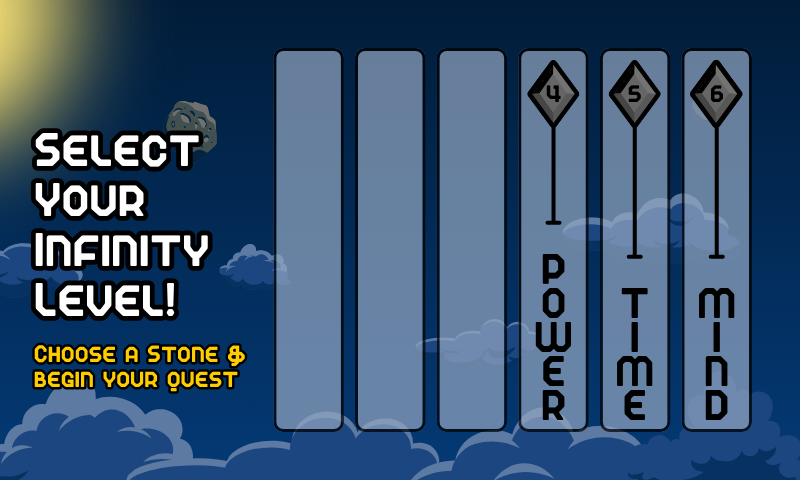
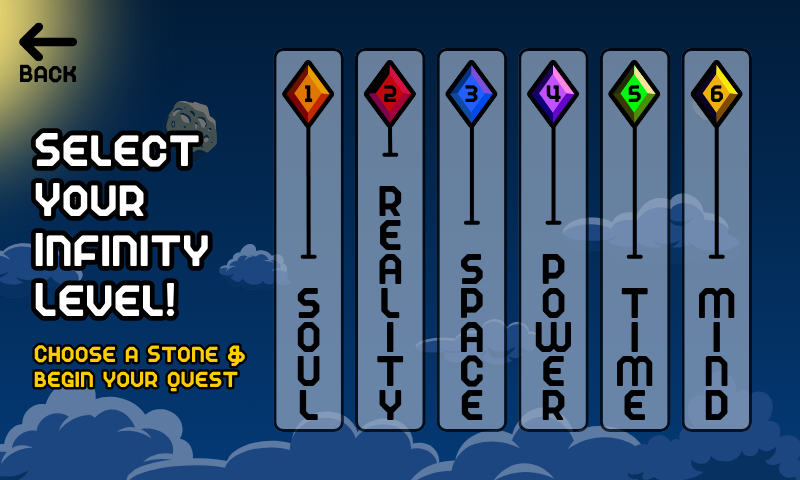
Updated level1 design.

diff --git a/core/src/main/java/com/ByteMe/LevelsScreen.java b/core/src/main/java/com/ByteMe/LevelsScreen.java
@@ -55,6 +55,21 @@ public class LevelsScreen implements Screen {
         int level3_w = 60;
         int level3_h = 375;
 
+        int level4_x = 525;
+        int level4_y = 50;
+        int level4_w = 60;
+        int level4_h = 375;
+
+        int level5_x = 608;
+        int level5_y = 50;
+        int level5_w = 60;
+        int level5_h = 375;
+
+        int level6_x = 690;
+        int level6_y = 50;
+        int level6_w = 60;
+        int level6_h = 375;
+
         int back_x = 10;
         int back_y = 400;
         int back_width = 80;
@@ -72,6 +87,18 @@ public class LevelsScreen implements Screen {
             }
             if (mouseX >= level3_x && mouseX <= level3_x+level3_w&& mouseY >= level3_y && mouseY <= level3_y+level3_h) {
                 game.setScreen(new HandScreen(game,3, player));
+            }
+            if (mouseX >= level4_x && mouseX <= level4_x+level4_w&& mouseY >= level4_y && mouseY <= level4_y+level4_h) {
+                //game.setScreen(new HandScreen(game,4, player));
+                game.setScreen(new NewLevel4(game, player));
+            }
+            if (mouseX >= level5_x && mouseX <= level5_x+level5_w&& mouseY >= level5_y && mouseY <= level5_y+level5_h) {
+                //game.setScreen(new HandScreen(game,5, player));
+                game.setScreen(new NewLevel5(game, player));
+            }
+            if (mouseX >= level6_x && mouseX <= level6_x+level6_w&& mouseY >= level6_y && mouseY <= level6_y+level6_h) {
+                //game.setScreen(new HandScreen(game,6, player));
+                game.setScreen(new NewLevel6(game, player));
             }
             if (mouseX >= back_x && mouseX <= back_x+back_width && mouseY >= back_y && mouseY <= back_y+back_height) {
                 game.setScreen(new HomeScreen(game, player));

diff --git a/core/src/main/java/com/ByteMe/Level.java b/core/src/main/java/com/ByteMe/Level.java
@@ -15,6 +15,7 @@ import java.io.FileOutputStream;
 import java.io.IOException;
 import java.io.ObjectOutputStream;
 import java.io.Serializable;
+import java.lang.reflect.Array;
 import java.util.ArrayList;
 import java.util.Iterator;
 import java.util.List;
@@ -66,6 +67,9 @@ public abstract class Level implements Serializable {
     protected int score;
     protected GameState gameState;
     protected int levelNumber;
+    protected ArrayList<Bird> activeBirds;
+    protected ArrayList<Pig> activePigs;
+    protected ArrayList<Obstacle> activeObstacles;
 
     public Level(MainLauncher game, String t, int p1, int p2, int s1, int s2, Player player) {
         this.game = game;
